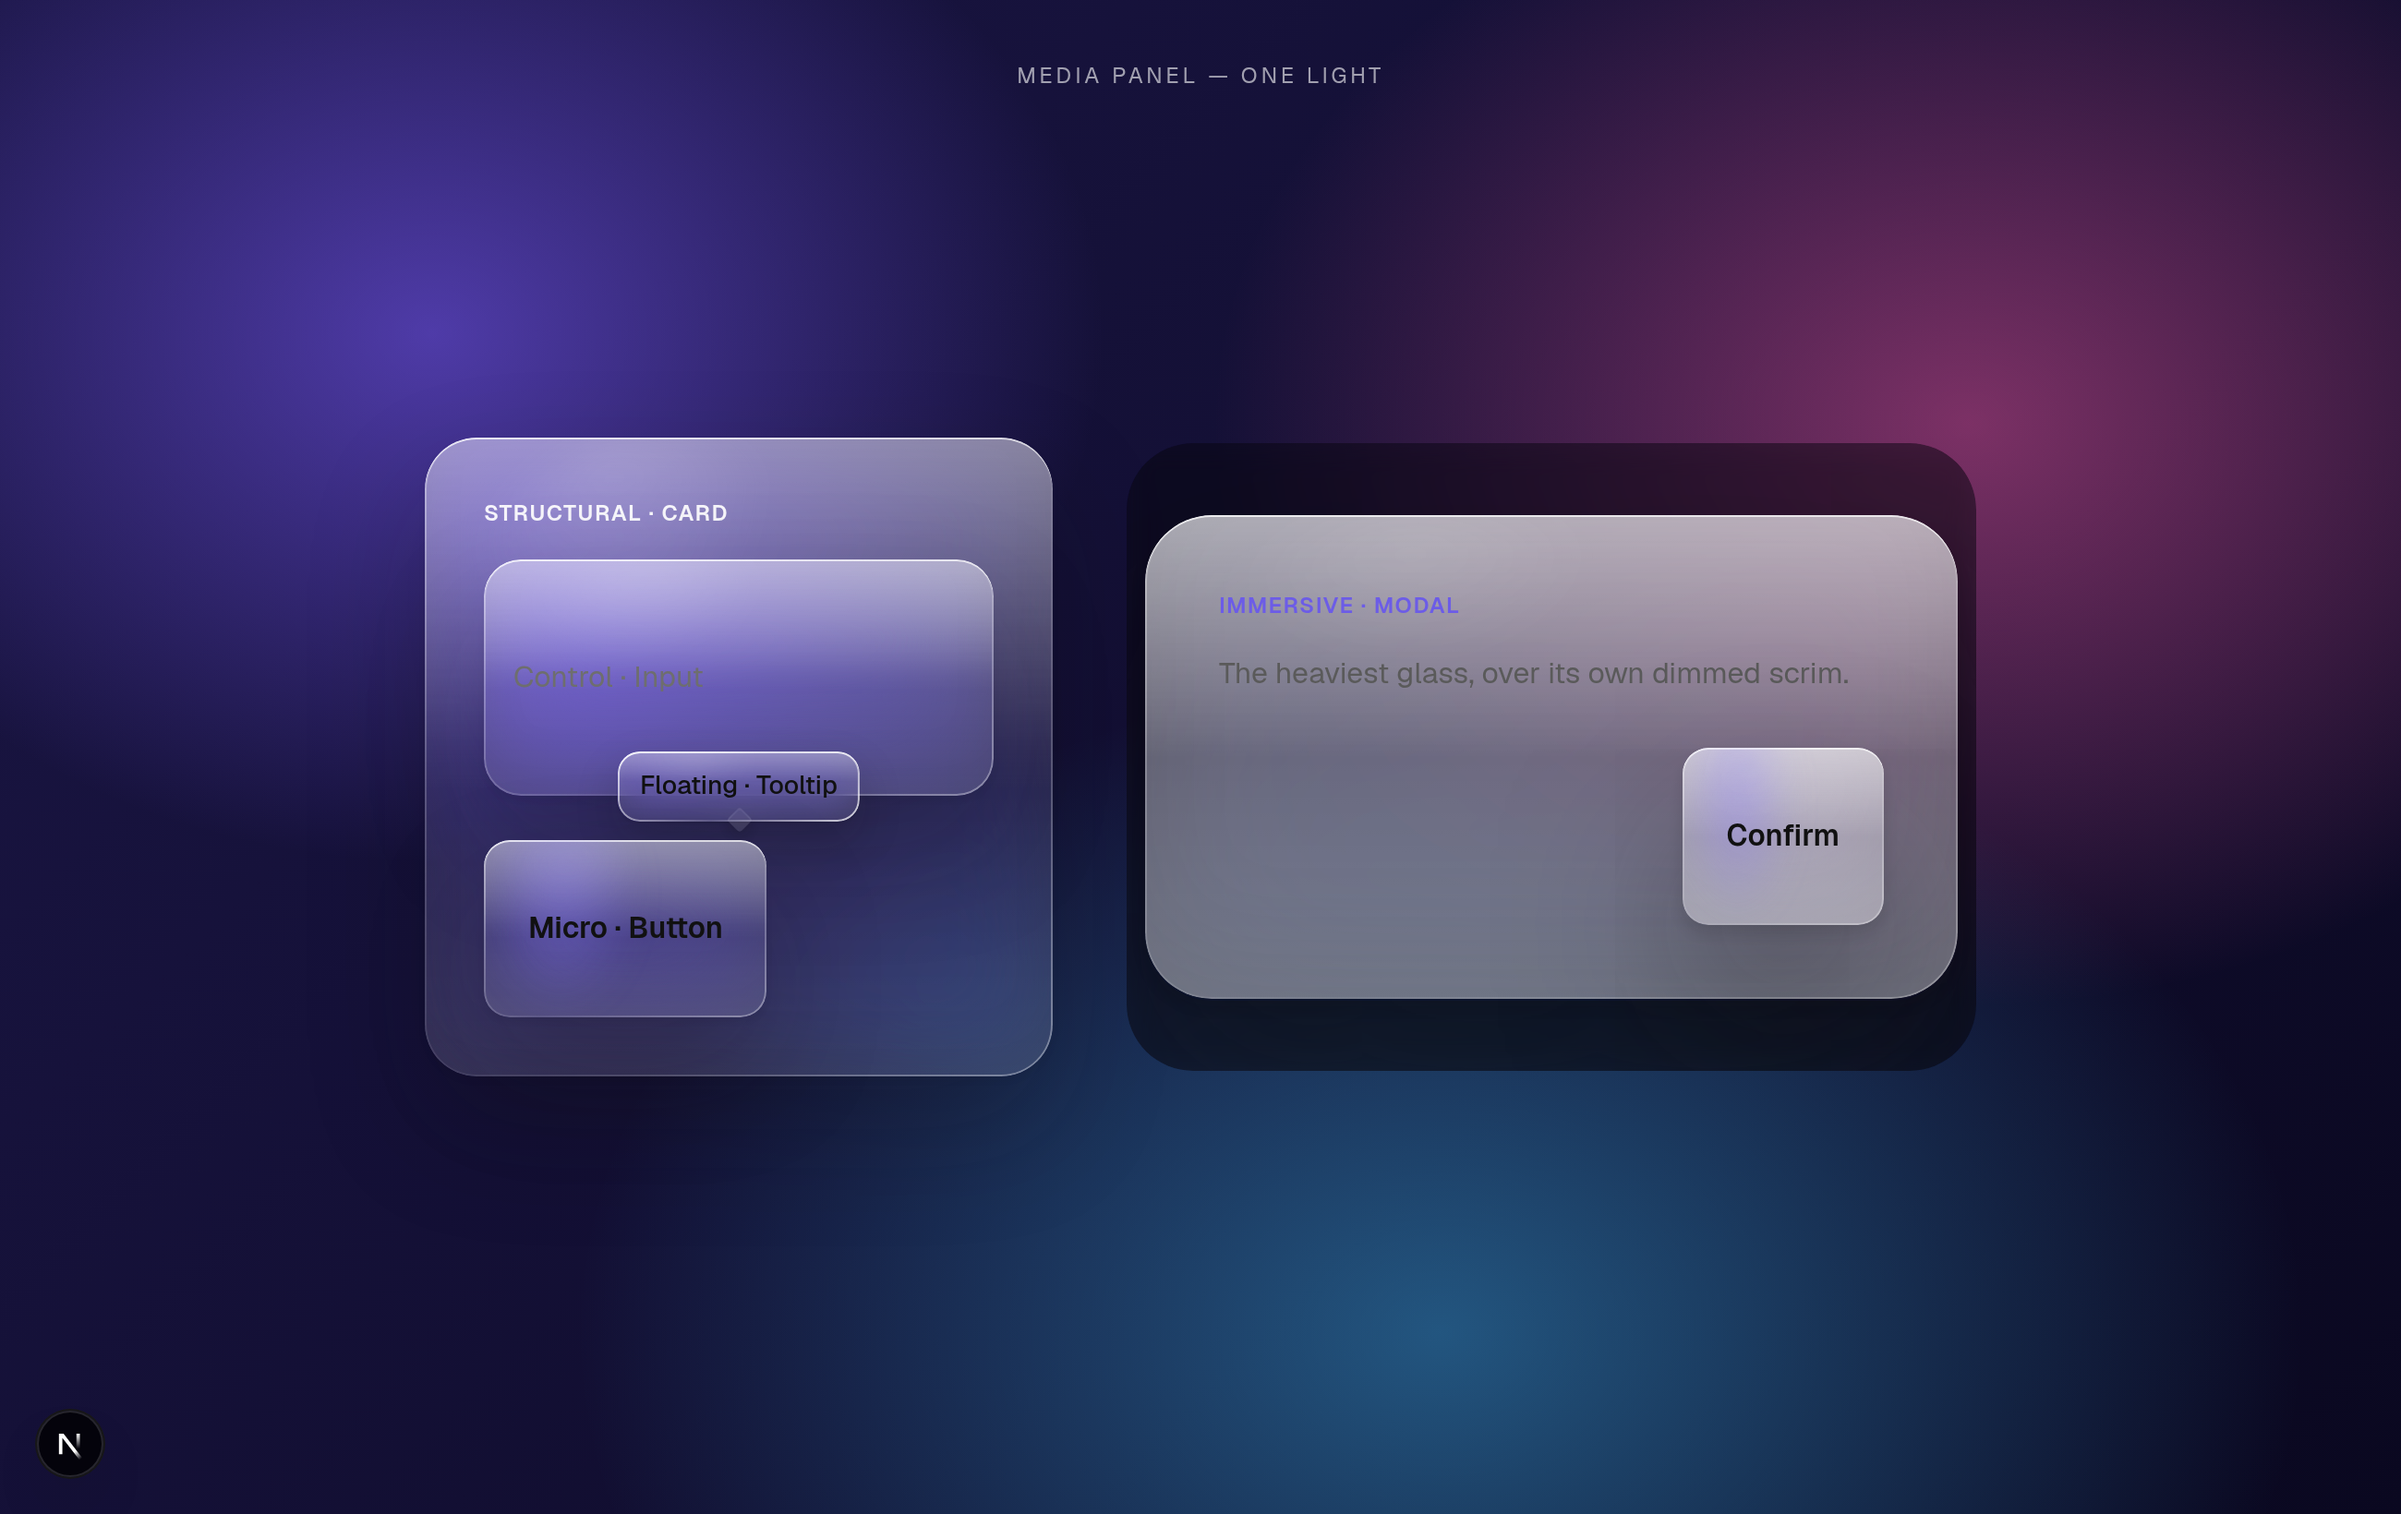
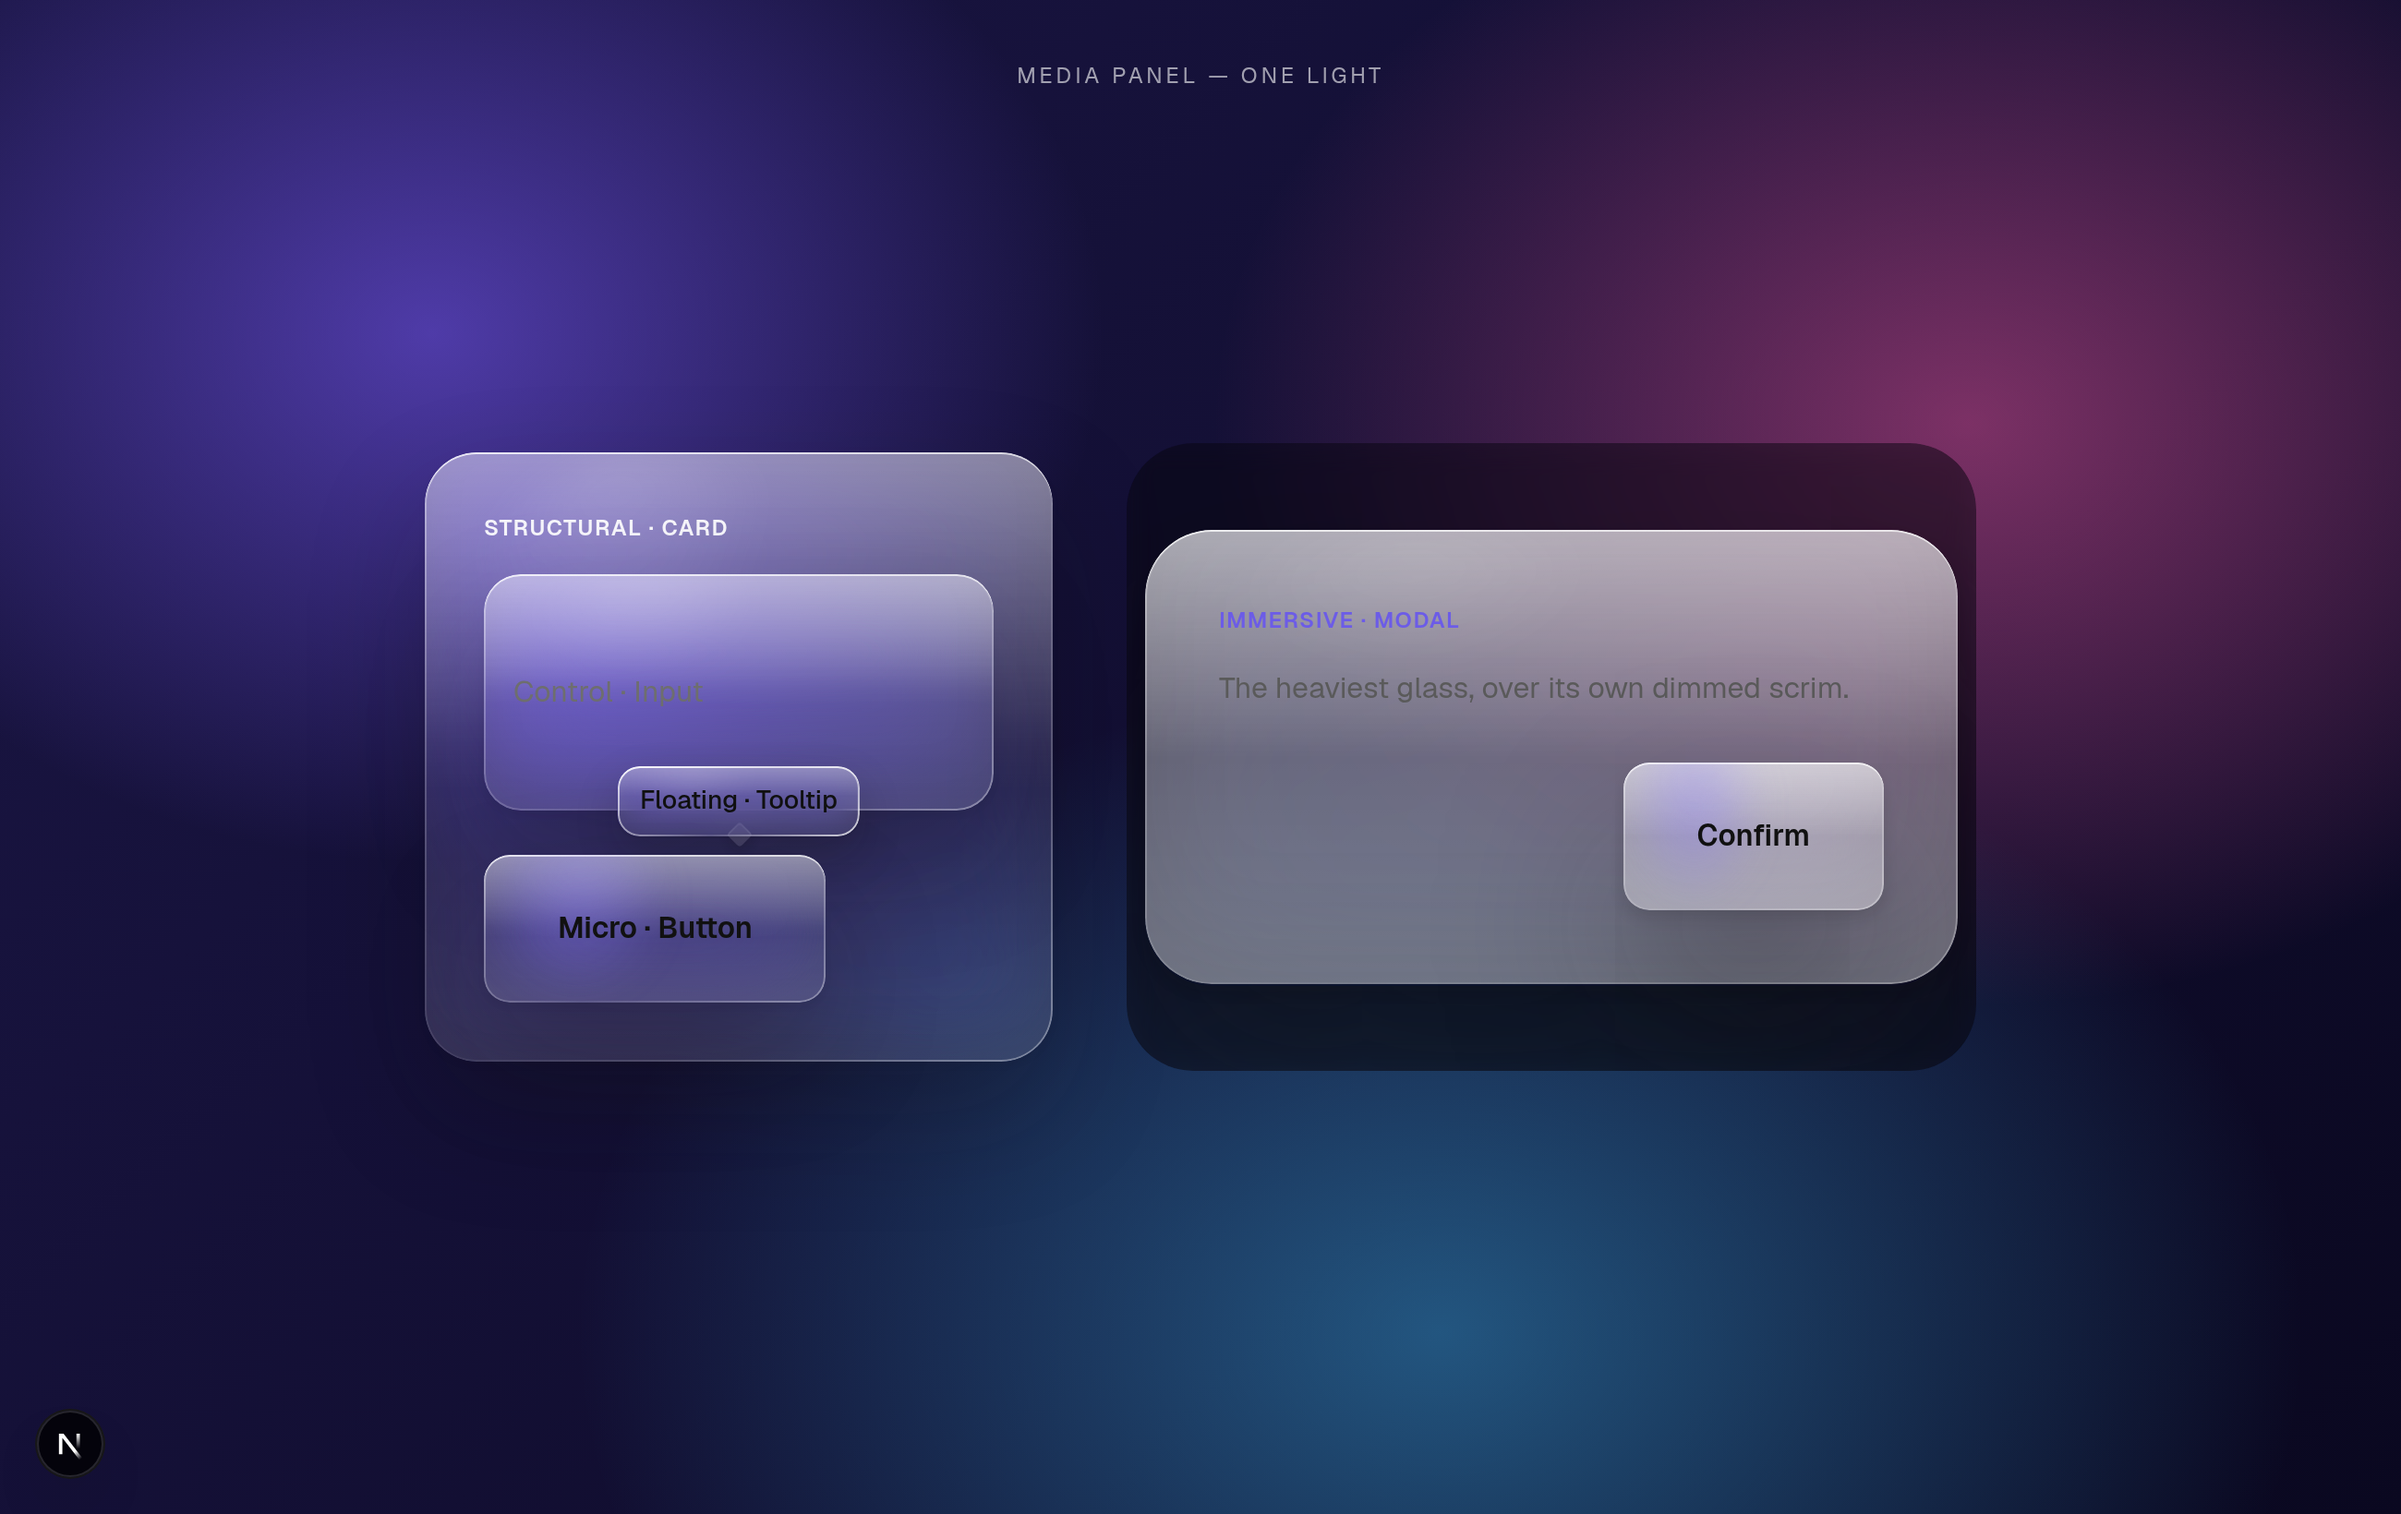
fix(button): low, wide action geometry (Apple/Linear/Stripe)
Owner feedback: the button was still too vertical. Lower the height
(h-8/h-10/h-12) and widen via generous horizontal padding (px-5/px-7/px-8) for a
taut horizontal silhouette ~2.8-3.5x wider than tall; keep largely-rounded,
non-spherical corners (rounded-[12/14/16px]). Geometry only — material, optics,
reflections, refraction and Fresnel are strictly unchanged. Records the DS
principle: a Card invites reading, a Button invites clicking.

Claude-Session: https://claude.ai/code/session_01JSKxADquWPscGGWu93W5g6

diff --git a/src/components/ui/button.tsx b/src/components/ui/button.tsx
@@ -30,15 +30,15 @@ export const buttonVariants = cva(
         outline: 'text-text',
         destructive: 'text-text-on-accent',
       },
-      // The single Micro Surface geometry: a horizontal rounded rectangle —
-      // clearly wider than tall, a comfortable height (not a thin capsule),
-      // corners largely rounded but NOT spherical ends (Apple / Linear, not a
-      // pill or a balloon). Reads identically alone or nested (Card, Modal,
-      // Toolbar, Navbar). Heights/paddings kept accessible.
+      // The single Micro Surface geometry: a LOW, WIDE action button (Apple /
+      // Linear / Stripe). Reduced height + generous horizontal padding give a
+      // taut horizontal silhouette ~2.8–3.5× wider than tall; corners largely
+      // rounded but NOT spherical (no pill). It must read instantly as an action
+      // control, never as a small card. Material/optics are unchanged.
       size: {
-        sm: 'h-9 px-4 text-body-sm rounded-[12px]',
-        md: 'h-11 px-5 text-body rounded-[14px]',
-        lg: 'h-14 px-6 text-body-lg rounded-[16px]',
+        sm: 'h-8 px-5 text-body-sm rounded-[12px]',
+        md: 'h-10 px-7 text-body rounded-[14px]',
+        lg: 'h-12 px-8 text-body-lg rounded-[16px]',
       },
     },
     defaultVariants: { variant: 'primary', size: 'md' },

diff --git a/PROJECT_STATE.md b/PROJECT_STATE.md
@@ -74,10 +74,16 @@
 >   capsule at all sizes. Icon buttons stay circular. The dev card's
 >   `.btn-embedded` (a competing 38px geometry) was removed so it uses the
 >   canonical Micro. There is now ONE Micro geometry everywhere.
->   - **Re-balanced (owner feedback):** the final Micro geometry is a horizontal
->     **rounded rectangle** (Apple / Linear) — comfortable height, width well
->     above height, corners largely rounded but NOT spherical ends
->     (`rounded-[12/14/16px]`), not a thin pill or balloon.
+>   - **Re-balanced (owner feedback):** the final Micro geometry is a LOW, WIDE
+>     action button (Apple / Linear / Stripe) — reduced height (`h-8/h-10/h-12`),
+>     generous horizontal padding (`px-5/px-7/px-8`) for a taut horizontal
+>     silhouette ~2.8–3.5× wider than tall, corners largely rounded but NOT
+>     spherical (`rounded-[12/14/16px]`). It must read instantly as an action,
+>     never as a small card.
+>   - **DS principle (binding):** *a Card invites you to read; a Button invites
+>     you to click.* Same material language, but proportions must communicate
+>     that difference immediately — a Button is low and wide; a Card is a calm
+>     plane that lets content breathe.
 >   - **Optical refinements kept:** the validated glass-read improvements (radial
 >     top reflection, three-zone volume, internal-reflection/TIR line, livelier
 >     Fresnel) live in `src/styles/micro.css` scoped to `.ds-micro` (Button,
